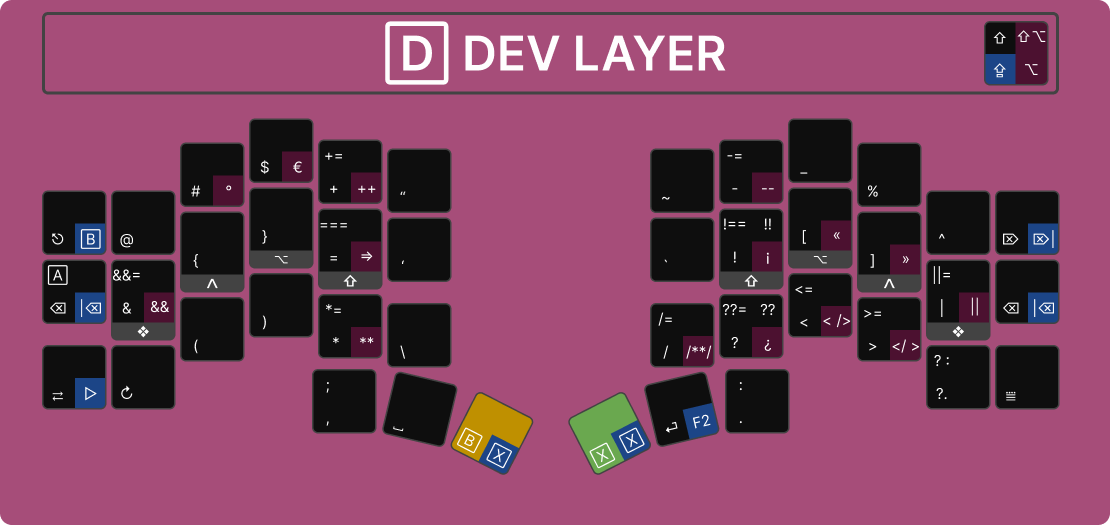
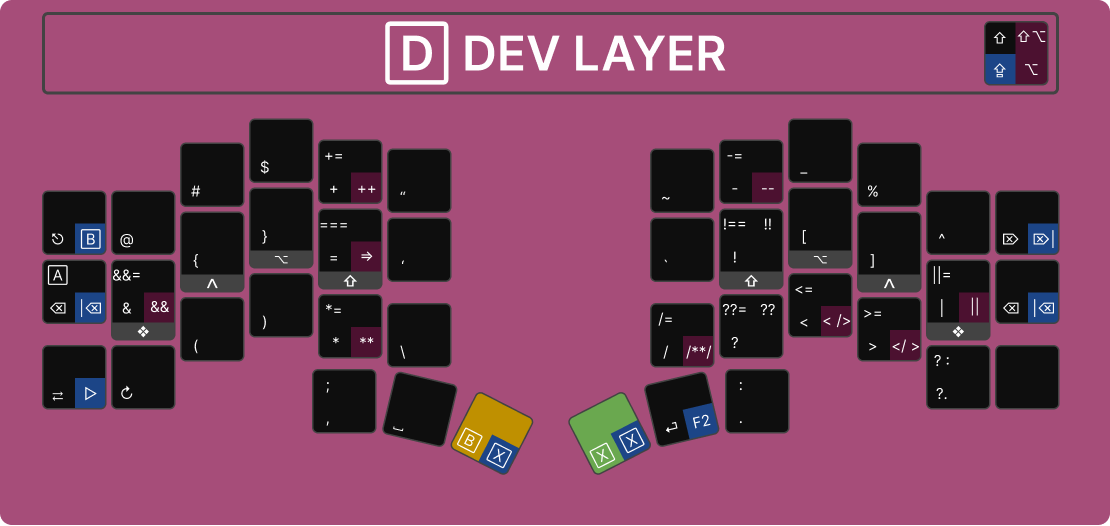
update DEV layer on android

diff --git a/docs/android.md b/docs/android.md
@@ -93,17 +93,6 @@ Symbols and dev shortcuts for JS/TS.
 
 ![DEV Layer](/.github/images/layers/android/DEV.png)
 
-#### Symbols
-
-| Label           | Shortcut                                  |
-| :-------------: | ----------------------------------------: |
-| <kbd>°</kbd>    | <kbd>⌥</kbd>+<kbd>#</kbd>                |
-| <kbd>€</kbd>    | <kbd>⌥</kbd>+<kbd>$</kbd>                |
-| <kbd>«</kbd>    | <kbd>⌥</kbd>++<kbd>[</kbd>               |
-| <kbd>»</kbd>    | <kbd>⌥</kbd>++<kbd>]</kbd>               |
-| <kbd>¡</kbd>    | <kbd>⌥</kbd>+<kbd>!</kbd>                |
-| <kbd>¿</kbd>    | <kbd>⌥</kbd>+<kbd>?</kbd>                |
-
 #### JS/TS
 
 | Label                                                                                                                       | Shortcut                     | Action |
@@ -140,14 +129,13 @@ Symbols and dev shortcuts for JS/TS.
 | Label        | Shortcut                     | Action                      |
 | -----------: | ---------------------------: | --------------------------- |
 | <kbd>↻</kbd> | <kbd>↻</kbd>                 | Refresh                     |
-| <kbd>⟳</kbd> | <kbd>⇧</kbd>+<kbd>↻</kbd>   | Hard refresh (clean cache) |
-| <kbd>⩸</kbd> |                              | Open DevTools              |
+| <kbd>⟳</kbd> | <kbd>⇧</kbd>+<kbd>↻</kbd>   | Hard refresh (clean cache)  |
 
 #### VS Code
 
-| Label             | Shortcut                                | Action                      |
-| ----------------: | --------------------------------------: | --------------------------- |
-| <kbd>//</kbd>     | <kbd>⌃</kbd>+<kbd>/</kbd>               | Toggle line comment         |
+| Label               | Shortcut                                | Action                      |
+| ------------------: | --------------------------------------: | --------------------------- |
+| <kbd>//</kbd>       | <kbd>⌃</kbd>+<kbd>/</kbd>               | Toggle line comment         |
 | <kbd>/\* \*/</kbd>  | <kbd>⇧</kbd>+<kbd>/</kbd>               | Toggle block comment        |
 
 ⇧ [Back to menu](#menu)

diff --git a/docs/windows.md b/docs/windows.md
@@ -144,9 +144,9 @@ Symbols and dev shortcuts for JS/TS.
 
 #### VS Code
 
-| Label             | Shortcut                                | Action                      |
-| ----------------: | --------------------------------------: | --------------------------- |
-| <kbd>//</kbd>     | <kbd>⌃</kbd>+<kbd>/</kbd>               | Toggle line comment         |
+| Label               | Shortcut                                | Action                      |
+| ------------------: | --------------------------------------: | --------------------------- |
+| <kbd>//</kbd>       | <kbd>⌃</kbd>+<kbd>/</kbd>               | Toggle line comment         |
 | <kbd>/\* \*/</kbd>  | <kbd>⇧</kbd>+<kbd>/</kbd>               | Toggle block comment        |
 
 ⇧ [Back to menu](#menu)
